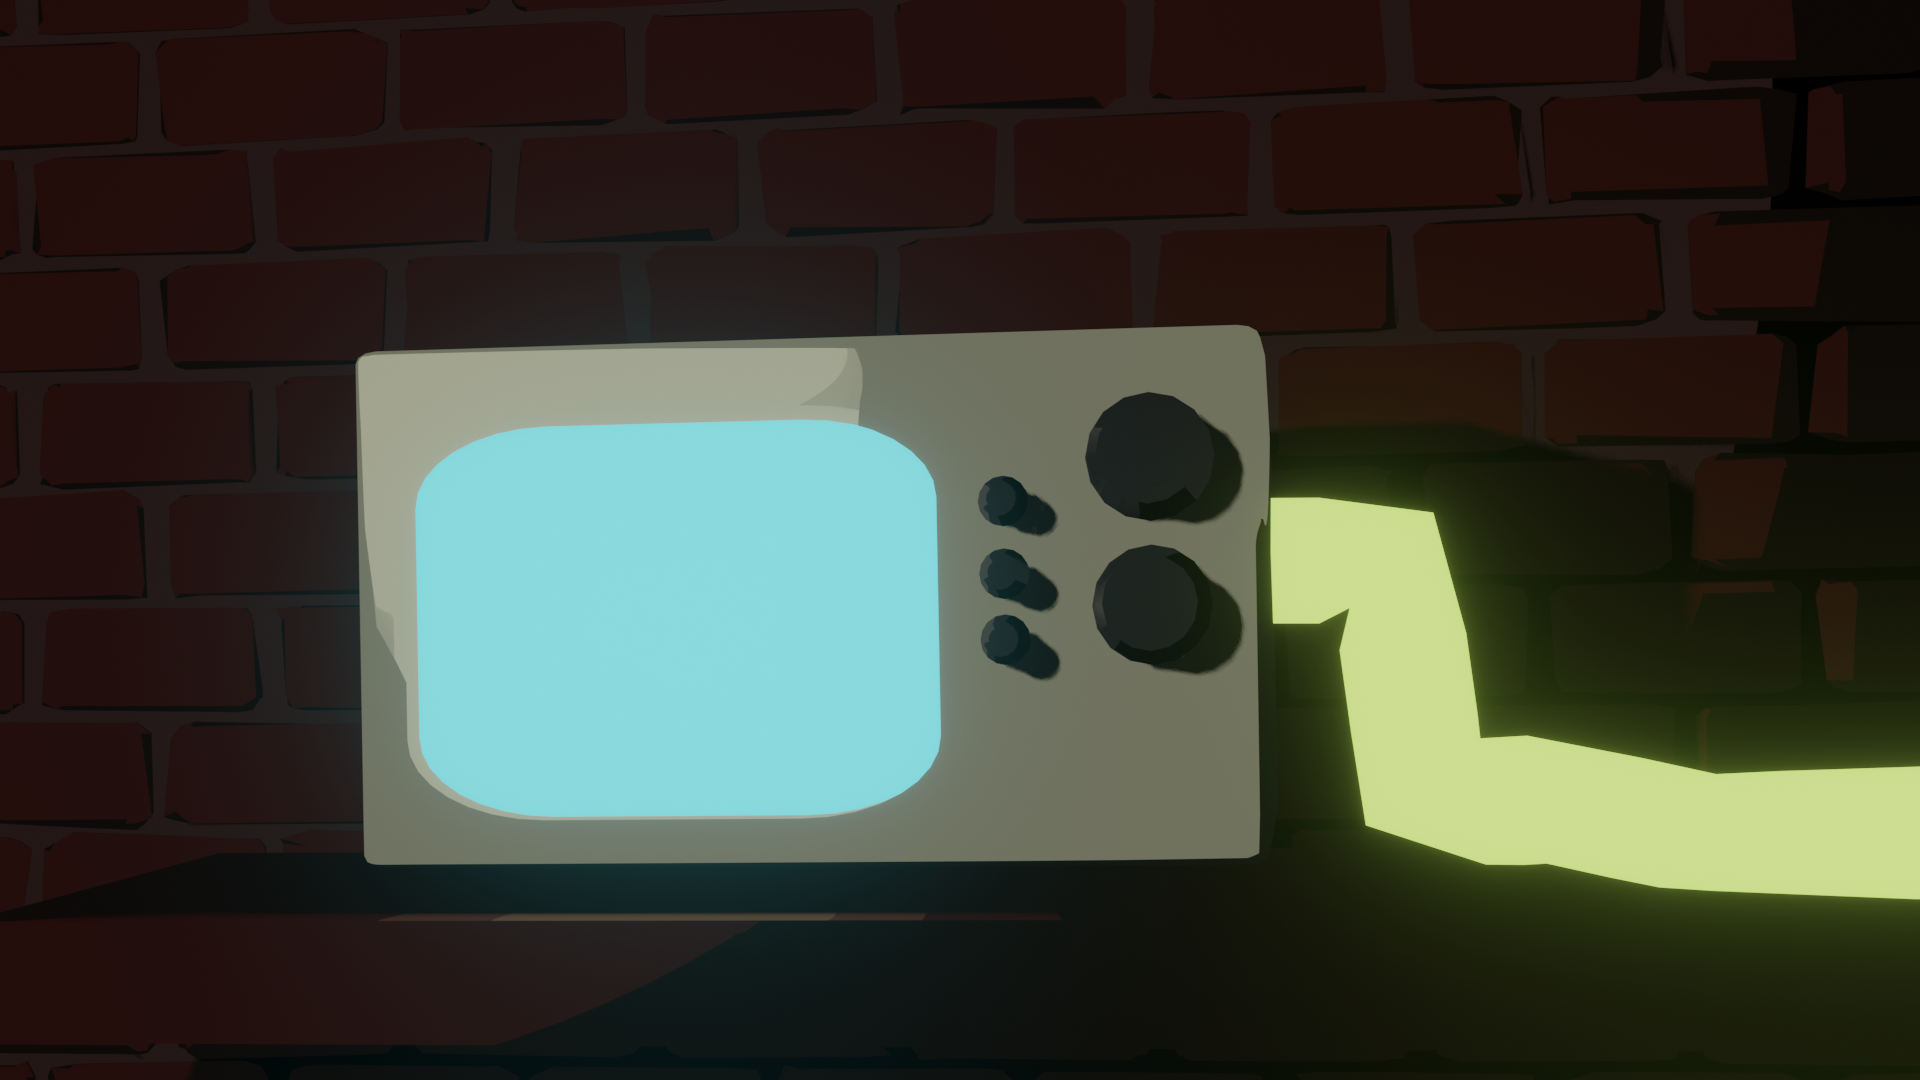
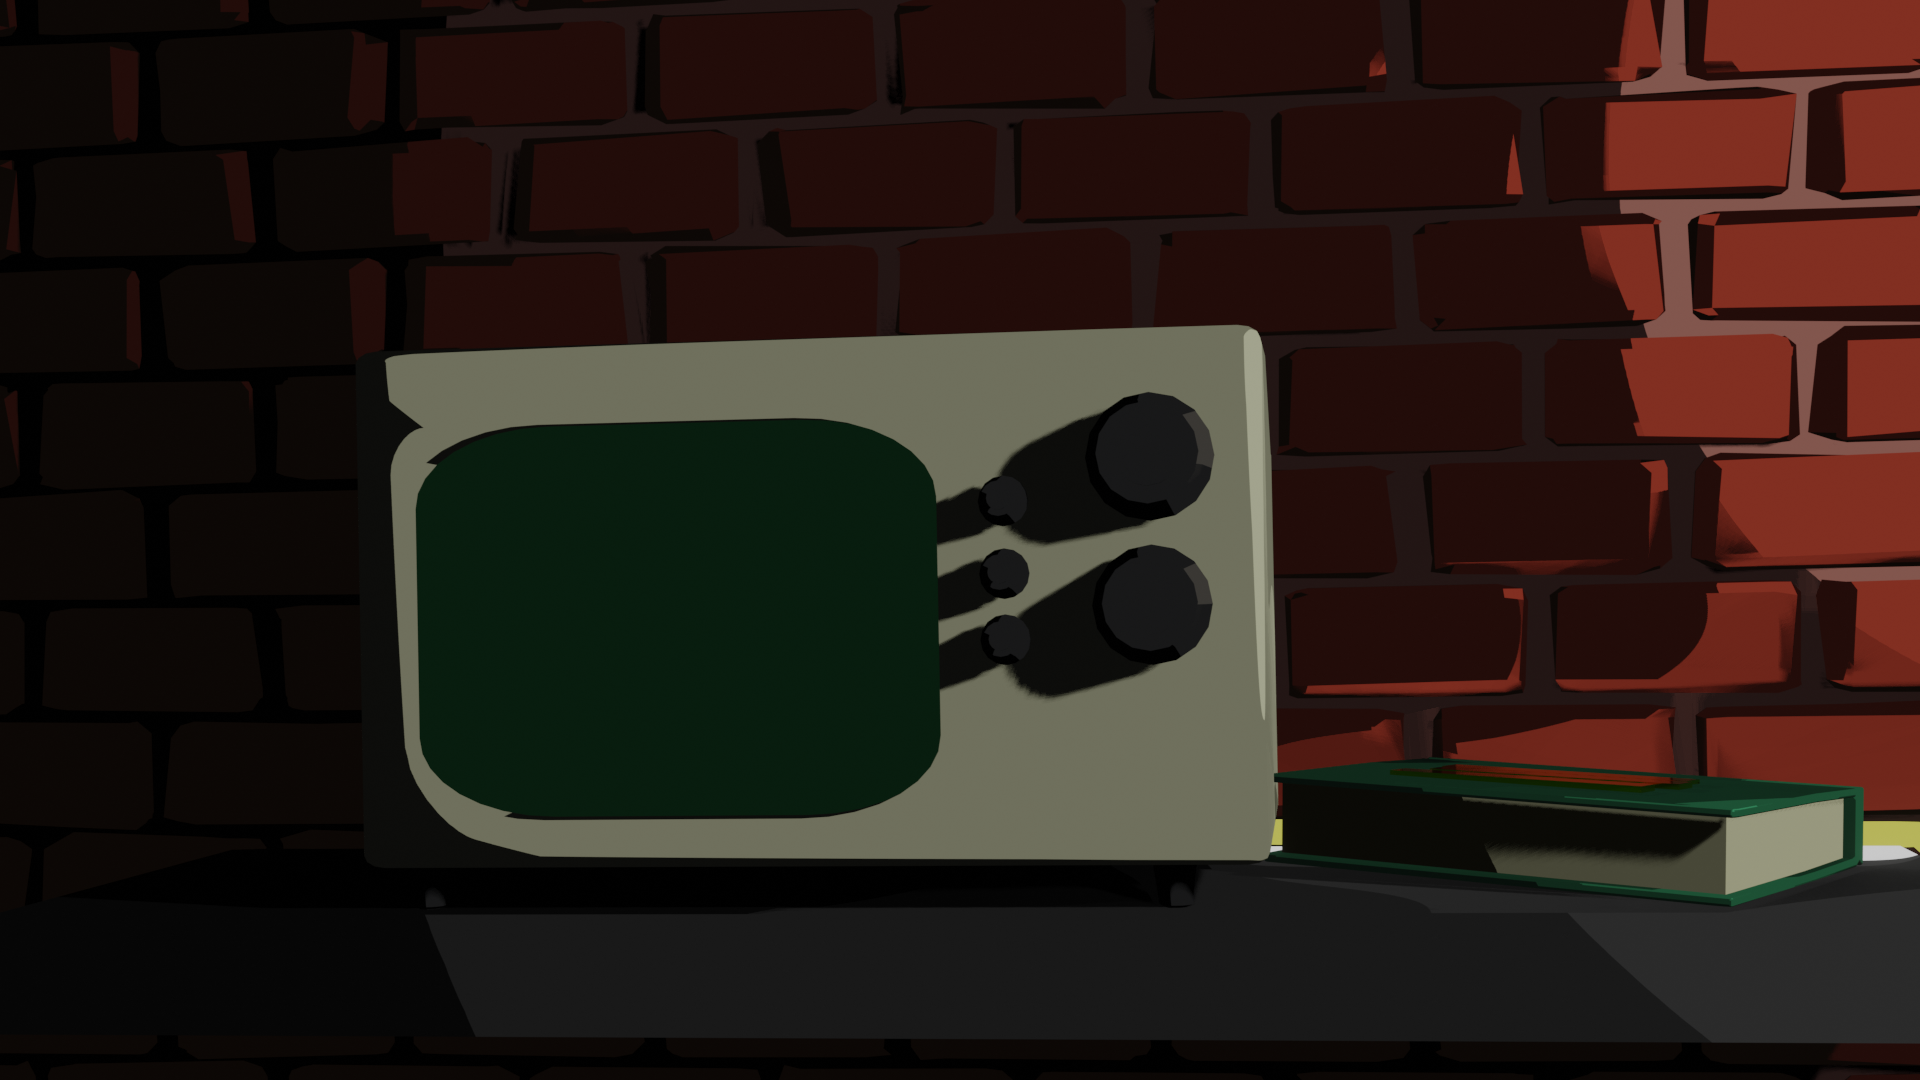
new power button

diff --git a/script.js b/script.js
@@ -8,9 +8,11 @@ document.addEventListener('DOMContentLoaded', (event) => {
   
   const adventureText = document.getElementById('adventureText');
   const startButton = document.getElementById('startButton');
+  const powerButton = document.getElementById('powerButton');
 
   console.log('adventureText element:', adventureText);
   console.log('startButton element:', startButton);
+  console.log('powerButton element:', powerButton);
 
   function startAdventure() {
     console.log('startAdventure function called');
@@ -21,9 +23,15 @@ document.addEventListener('DOMContentLoaded', (event) => {
     console.log('Chapter1.StartChapter1() called');
   }
 
+  // Power button functionality
+  powerButton.addEventListener('click', () => {
+    document.body.style.backgroundImage = "url('Images/TVglowing.png')"; // Change background
+    startButton.style.display = 'block'; // Reveal the start button
+    powerButton.style.display = 'none'; // Hide the power button after clicking
+  });
+
   // Expose chapter functions to global scope for button onclick
   window.Chapter1 = Chapter1;
-  // window.Chapter2 = Chapter2;  // Commented out as Chapter2 is not defined yet
   window.handleChoice = handleChoice;  // Add this line
 
   console.log('Adding click event listener to start button');

diff --git a/styles.css b/styles.css
@@ -2,7 +2,7 @@
 
 /* Global styles for the body */
 body {
-    background-image: url('Images/TVglowing.png');
+    background-image: url('Images/TvOff.png');
     background-size: cover;
     background-position: center;
     background-repeat: no-repeat;
@@ -117,5 +117,28 @@ main::before {
 main::after {
     bottom: 10px;
     right: 10px;
+}
+
+/* Power button styles */
+.power-button {
+    position: absolute;
+    top: 20%; /* Adjust position as needed */
+    left: 80%; /* Adjust position as needed */
+    transform: translate(-50%, -50%);
+    padding: 15px 30px;
+    font-size: 24px;
+    font-weight: bold;
+    background-color: #e74c3c; /* Red color for power button */
+    color: #ffffff;
+    border: none;
+    border-radius: 50%; /* Make it circular */
+    cursor: pointer;
+    transition: all 0.3s ease;
+}
+
+/* Hover effect for power button */
+.power-button:hover {
+    background-color: #c0392b; /* Darker red on hover */
+    box-shadow: 0 0 20px rgba(231, 76, 60, 0.7); /* Glow effect */
 }
 

diff --git a/index.html b/index.html
@@ -11,7 +11,8 @@
     <div id="tv-screen">
       <div id="adventureText"></div>
     </div>
-    <button class="start-button" id="startButton">Start</button>
+    <button class="start-button" id="startButton" style="display: none;">Start</button> <!-- Initially hidden -->
+    <button class="power-button" id="powerButton">Power</button> <!-- New Power Button -->
   </main>
 
   <script type="module" src="script.js"></script>
